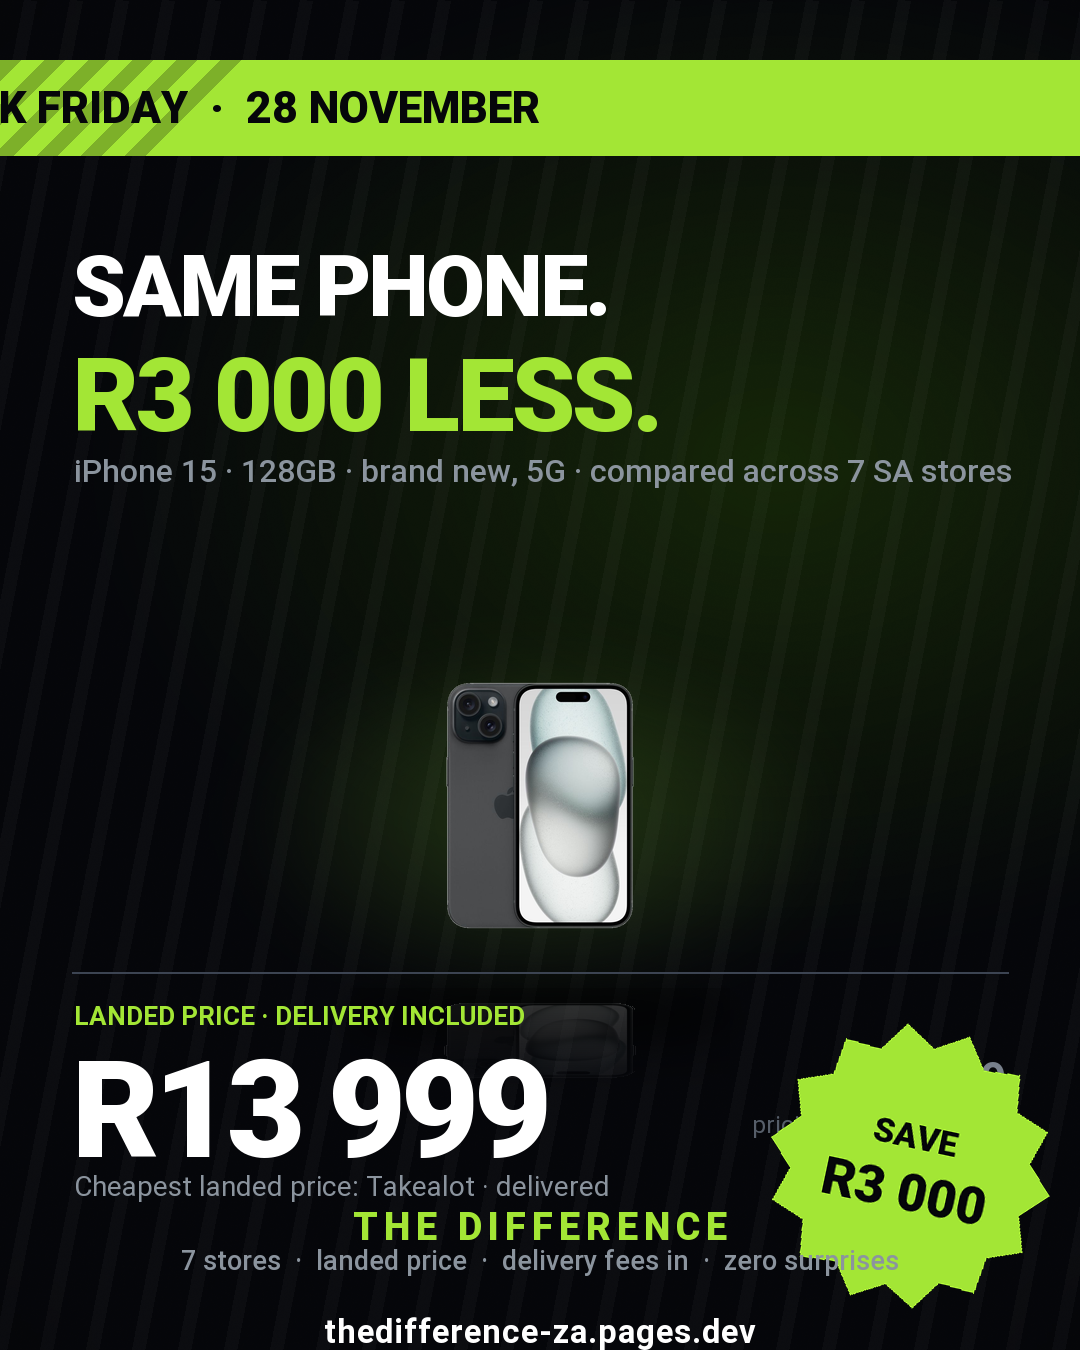
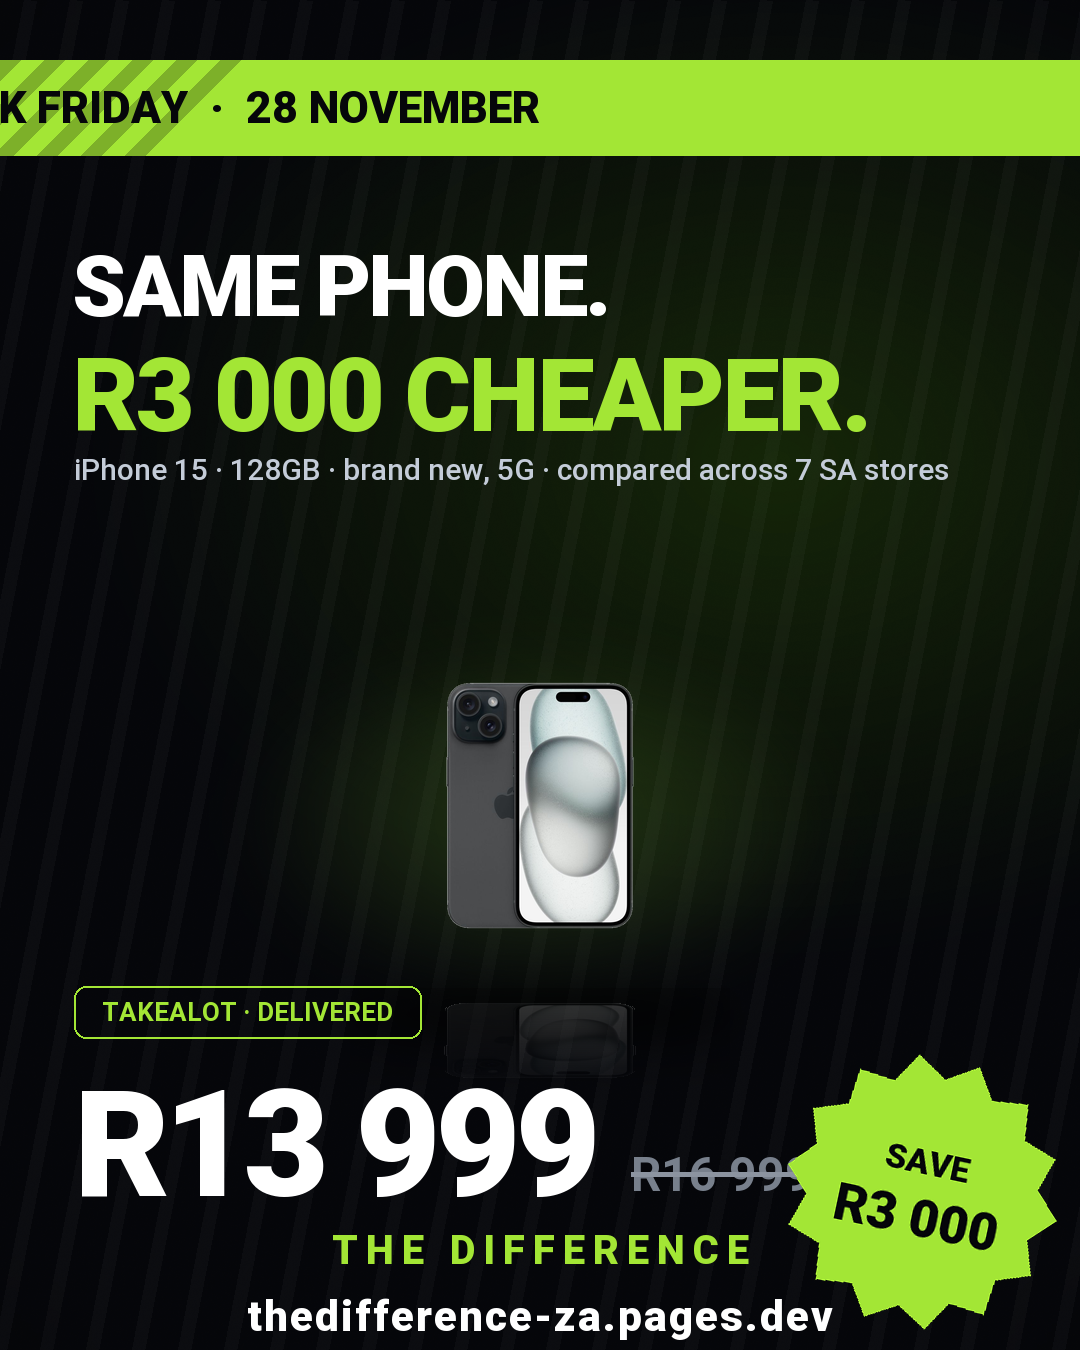
promo: clean up poster price block and typography — store chip, inline struck-through was price, simpler footer with larger URL

Changed region(s): [[0.0611, 0.7156, 0.9778, 1.0], [0.0611, 0.2489, 0.9472, 0.3733]]

diff --git a/scripts/make_bf_posters.py b/scripts/make_bf_posters.py
@@ -170,11 +170,9 @@ def product_hero(path, max_w, max_h):
     return stage
 
 
-def footer(draw, y=1196):
-    tracked(draw, (W / 2, y), "THE DIFFERENCE", black(38), ACID, tracking=6, anchor="ma")
-    t = "7 stores  ·  landed price  ·  delivery fees in  ·  zero surprises"
-    draw.text((W / 2, y + 56), t, font=medium(27), fill=GREY, anchor="mm")
-    tracked(draw, (W / 2, y + 108), "thedifference-za.pages.dev", bold(33), WHITE, tracking=1, anchor="ma")
+def footer(draw, y=1226):
+    tracked(draw, (W / 2, y), "THE DIFFERENCE", black(40), ACID, tracking=8, anchor="ma")
+    tracked(draw, (W / 2, y + 66), "thedifference-za.pages.dev", black(42), WHITE, tracking=2, anchor="ma")
 
 
 def deal_poster(line1, line2, sub, product_file, price, was, save, store_note, out):
@@ -187,25 +185,30 @@ def deal_poster(line1, line2, sub, product_file, price, was, save, store_note, o
     tracked(d, (72, 236), line1, black(86), WHITE, tracking=-3)
     tracked(d, (72, 336), line2, black(102), ACID, tracking=-3)
     if sub:
-        d.text((74, 452), sub, font=medium(32), fill=GREY)
+        d.text((74, 452), sub, font=medium(30), fill=(196, 204, 216))
 
     hero = product_hero(os.path.join(PRODUCTS, product_file), 640, 380)
     img.paste(hero, (int(W / 2 - hero.width / 2), 500), hero)
 
-    d.line([(72, 972), (W - 72, 972)], fill=(60, 68, 82), width=2)
+    store, note = store_note
+    f_chip = bold(26)
+    ct = f"{store} · {note}"
+    ctw = f_chip.getlength(ct) + 56
+    d.rounded_rectangle((74, 986, 74 + ctw, 986 + 52), radius=12, outline=ACID, width=2)
+    d.text((74 + 28, 986 + 26), ct, font=f_chip, fill=ACID, anchor="lm")
 
-    d.text((74, 1000), "LANDED PRICE · DELIVERY INCLUDED", font=bold(26), fill=ACID)
-    tracked(d, (72, 1030), price, black(136), WHITE, tracking=-6)
-    wt = d.textlength(was, font=bold(46))
-    d.text((W - 74 - wt, 1052), was, font=bold(46), fill=(120, 128, 140))
-    d.line([(W - 74 - wt, 1052 + 24), (W - 74, 1052 + 24)], fill=(120, 128, 140), width=4)
-    d.text((W - 74, 1110), "priciest store, delivered", font=regular(24), fill=DIM, anchor="ra")
-    d.text((74, 1170), store_note, font=regular(28), fill=GREY)
+    f_price = black(148)
+    px, py = 74, 1058
+    x_end = tracked(d, (px, py), price, f_price, WHITE, tracking=-6)
+    f_was = bold(48)
+    wx = x_end + 36
+    d.text((wx, py + 88), was, font=f_was, fill=(120, 128, 140))
+    d.line([(wx, py + 116), (wx + f_was.getlength(was), py + 116)], fill=(140, 148, 160), width=5)
 
-    burst = starburst(save, size=300)
-    img.paste(burst, (W - burst.width + 8, 988), burst)
+    burst = starburst(save, size=290)
+    img.paste(burst, (W - burst.width + 14, 1020), burst)
 
-    footer(d, 1204)
+    footer(d, 1226)
     img.save(os.path.join(OUT, out))
     print("wrote", out)
 
@@ -253,20 +256,20 @@ def main_poster():
 if __name__ == "__main__":
     deal_poster(
         "SAME LAPTOP.",
-        "R4 095 LESS.",
+        "R4 095 CHEAPER.",
         "Apple MacBook Air 13\" M3 · 256GB · compared across 7 stores",
         "prod-macbook-air-m3.png",
         "R19 999", "R24 094", "SAVE\nR4 095",
-        "Cheapest landed price: Incredible Connection · delivered",
+        ("INCREDIBLE CONNECTION", "DELIVERED"),
         "poster-bf-macbook.png",
     )
     deal_poster(
         "SAME PHONE.",
-        "R3 000 LESS.",
+        "R3 000 CHEAPER.",
         "iPhone 15 · 128GB · brand new, 5G · compared across 7 SA stores",
         "prod-iphone-15.png",
         "R13 999", "R16 999", "SAVE\nR3 000",
-        "Cheapest landed price: Takealot · delivered",
+        ("TAKEALOT", "DELIVERED"),
         "poster-bf-iphone.png",
     )
     deal_poster(
@@ -275,7 +278,7 @@ if __name__ == "__main__":
         "EcoFlow Delta Pro · 3600Wh · compared across 7 stores",
         "prod-ecoflow-delta-pro.png",
         "R48 999", "R52 999", "SAVE\nR4 000",
-        "Cheapest landed price: Amazon SA · delivered",
+        ("AMAZON SA", "DELIVERED"),
         "poster-bf-ecoflow.png",
     )
     main_poster()
